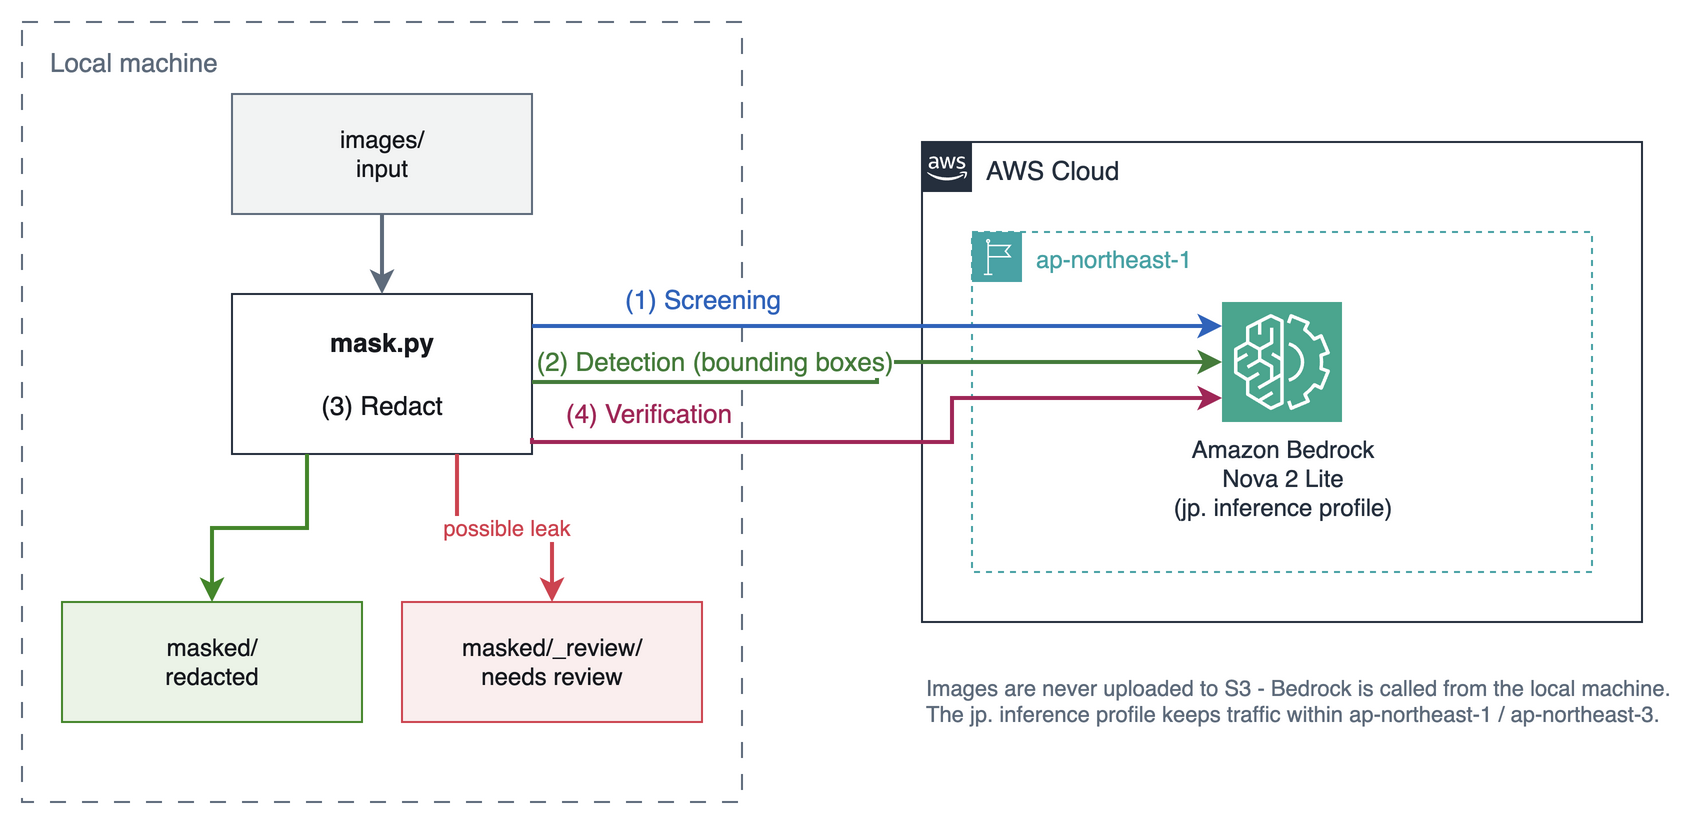
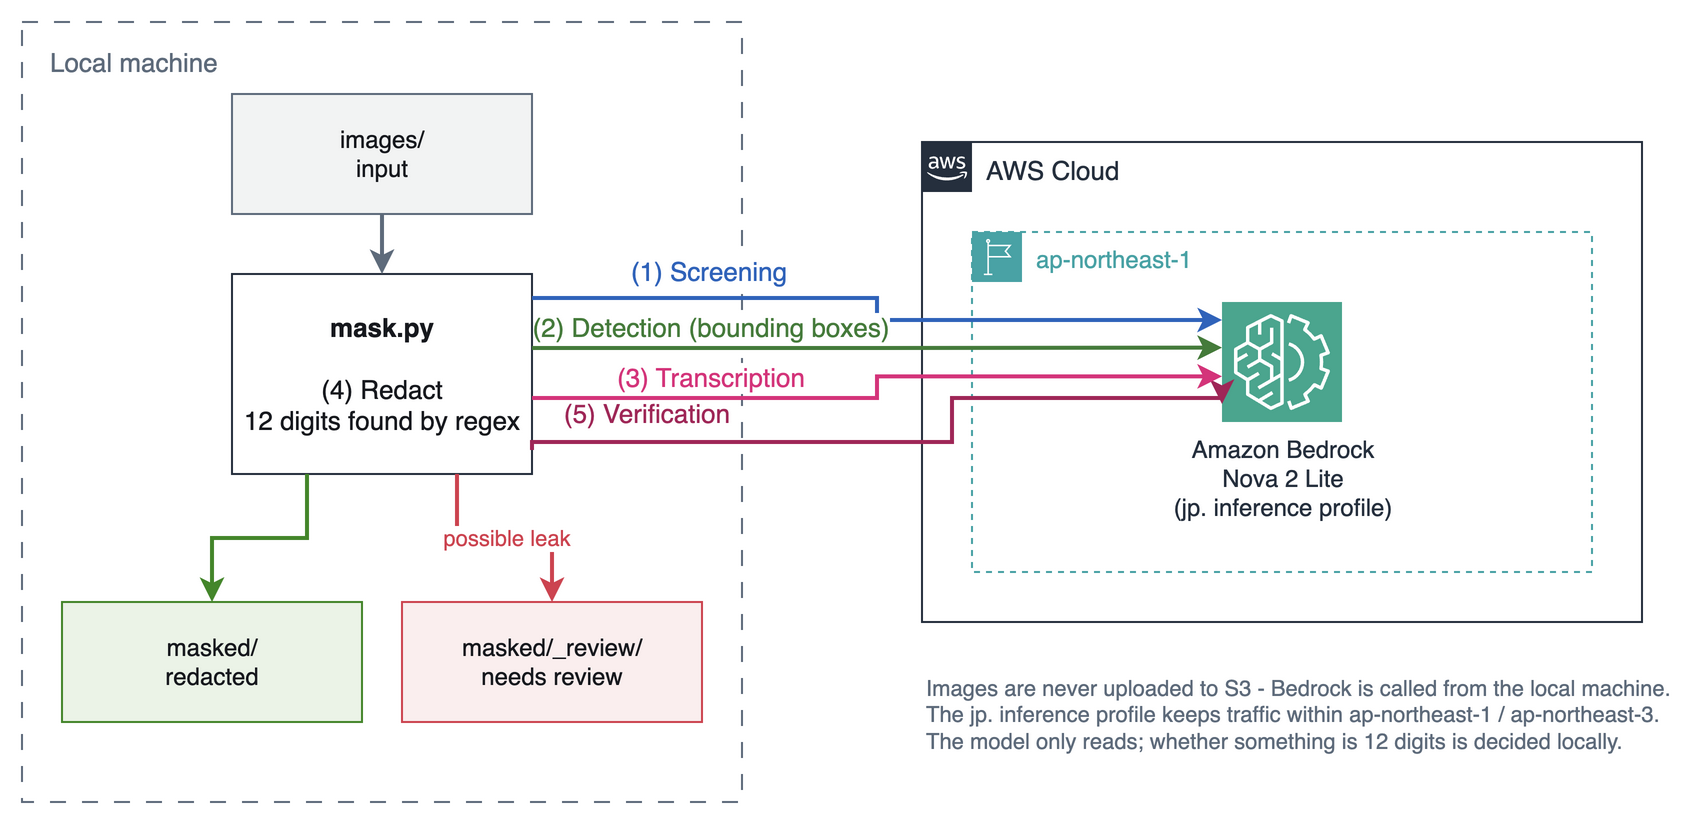
Use 文字起こし consistently for transcription
The Japanese docs mixed 書き起こし and 文字起こし; settle on the latter,
which reads more naturally for OCR.

Claude-Session: https://claude.ai/code/session_011yQddhW9FuRUJWvw9z74yr

diff --git a/README.ja.md b/README.ja.md
@@ -18,7 +18,7 @@
 |---|---|---|
 | 1 スクリーニング | 認証情報の有無だけを判定 | 対象外の画像を早期に除外してコストを抑える |
 | 2 検出 | 認証情報のバウンディングボックスを取得 | `[0, 1000]` 正規化座標で受け取る |
-| 3 12 桁スキャン | テキストを書き起こし、正規表現で 12 桁の数字を含む行を拾う | 判定をモデルに任せず確実に拾う |
+| 3 12 桁スキャン | テキストを文字起こしして、正規表現で 12 桁の数字を含む行を拾う | 判定をモデルに任せず確実に拾う |
 | 4 マスク | Pillow で塗り潰し | 座標を実寸に変換し、パディングを付与する |
 | 5 再検証 | マスク済み画像を再度チェック | 漏れがあれば `_review/` へ振り分ける |
 
@@ -28,7 +28,7 @@
 
 アカウント ID のような 12 桁の数字は、長い識別子の中に埋め込まれていると検出プロンプトでは取りこぼすことがあります。`arn:aws:iam::123456789012:user/foo` のような文字列を、モデルが 1 つの識別子として扱い、その中の数字の並びを見ないためです。
 
-そこで本ツールでは、判定をモデルに委ねていません。画像のテキストを書き起こしたうえで、**12 桁かどうかは正規表現で判定**します。該当した行は、値だけを切り出さずに**行ごとマスク**します。範囲は広くなりますが、確実に消せます。
+そこで本ツールでは、判定をモデルに委ねていません。画像のテキストを文字起こししたうえで、**12 桁かどうかは正規表現で判定**します。該当した行は、値だけを切り出さずに**行ごとマスク**します。範囲は広くなりますが、確実に消せます。
 
 このパスを省く場合は `--no-digit-scan` を指定してください（呼び出しが 1 回減ります）。
 
